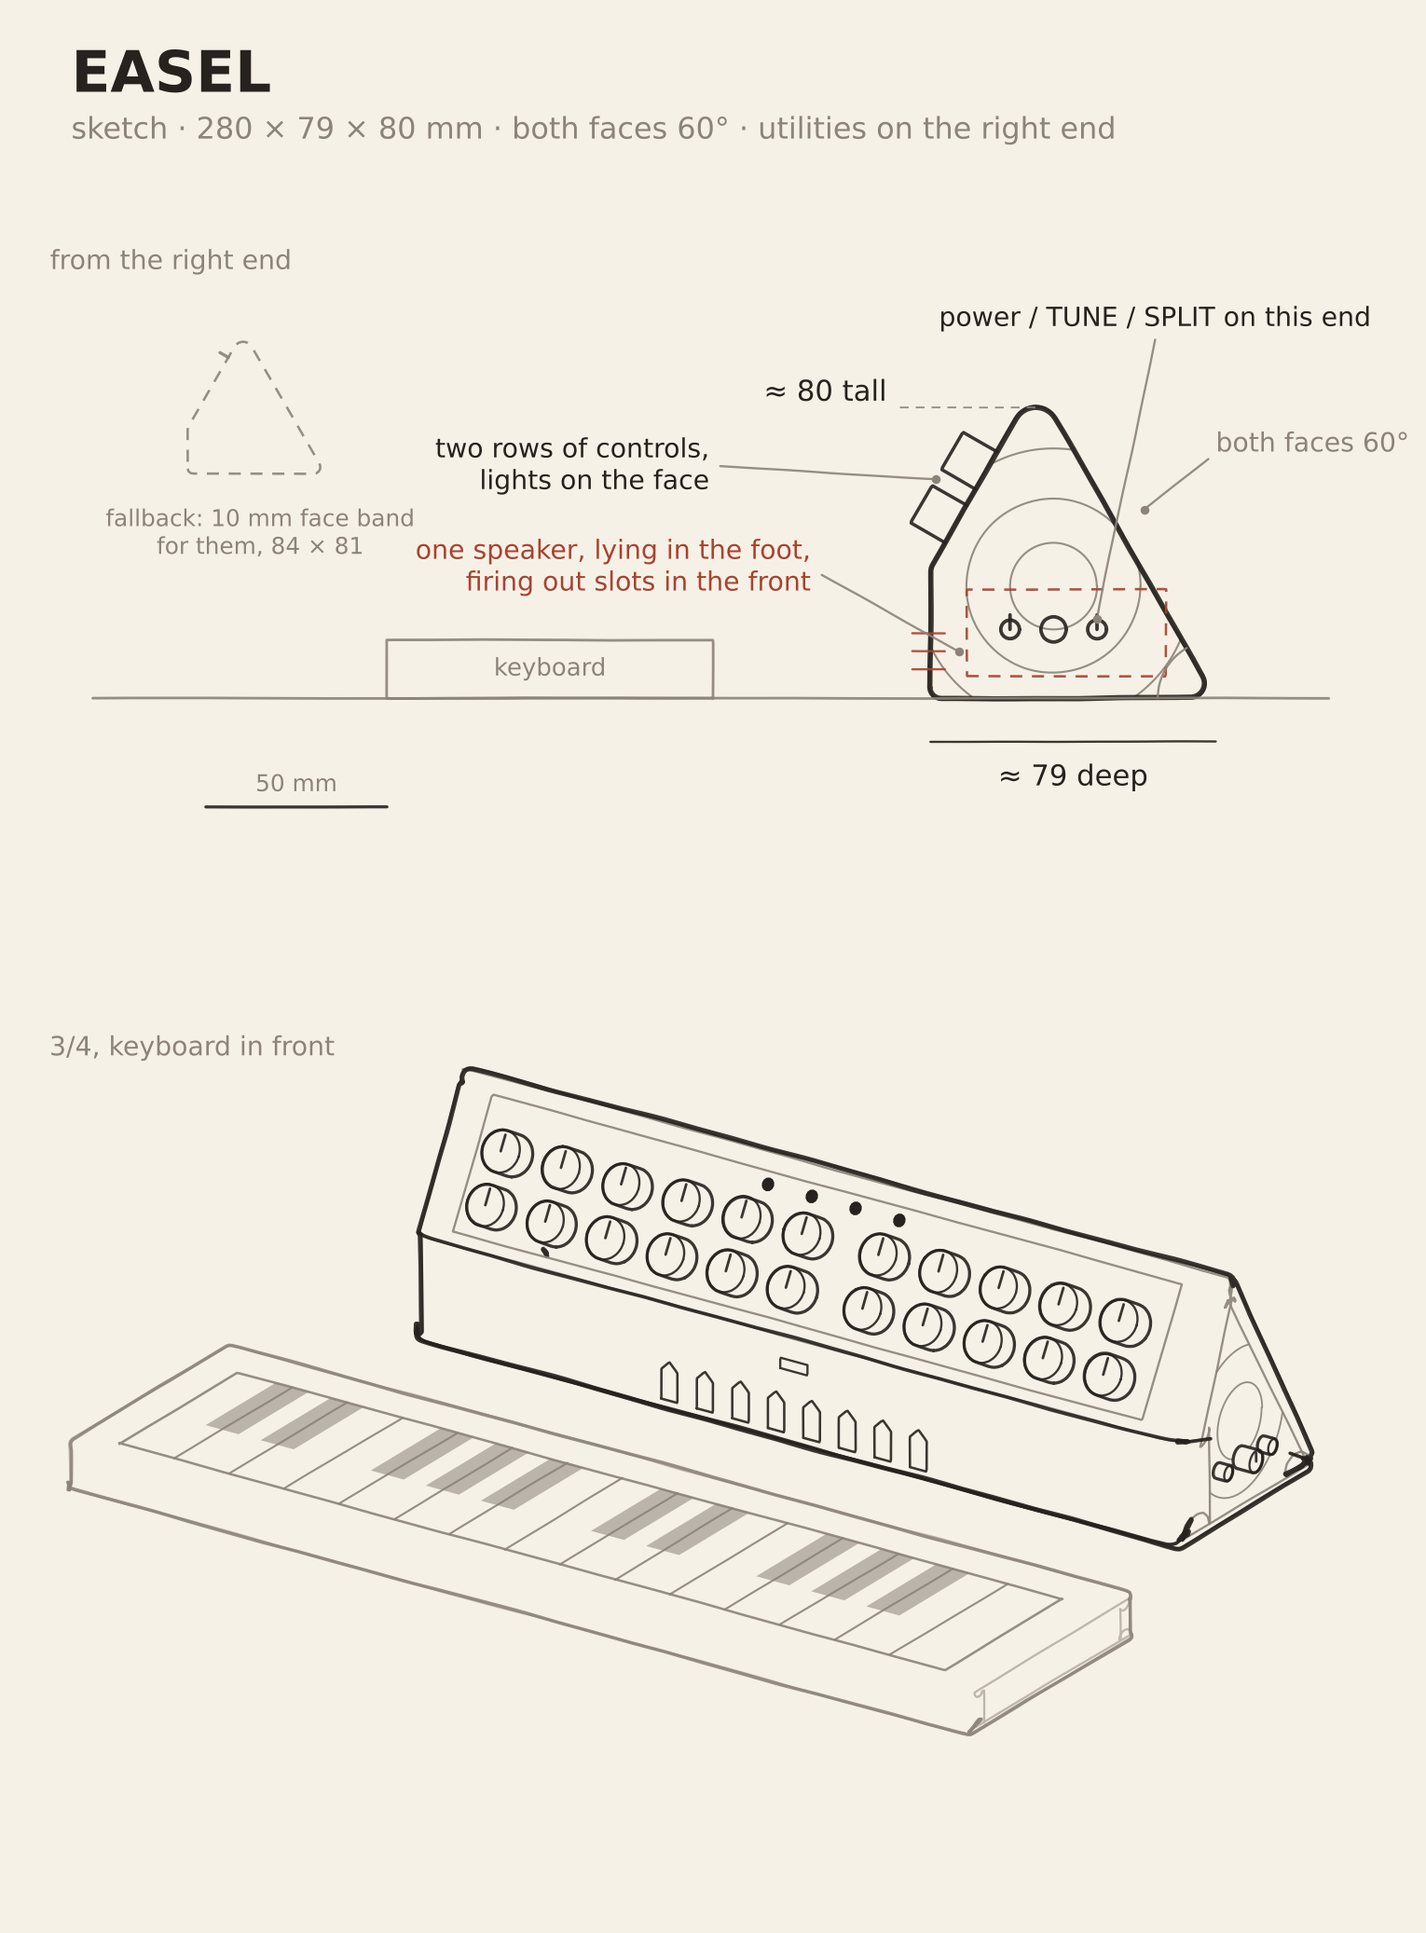
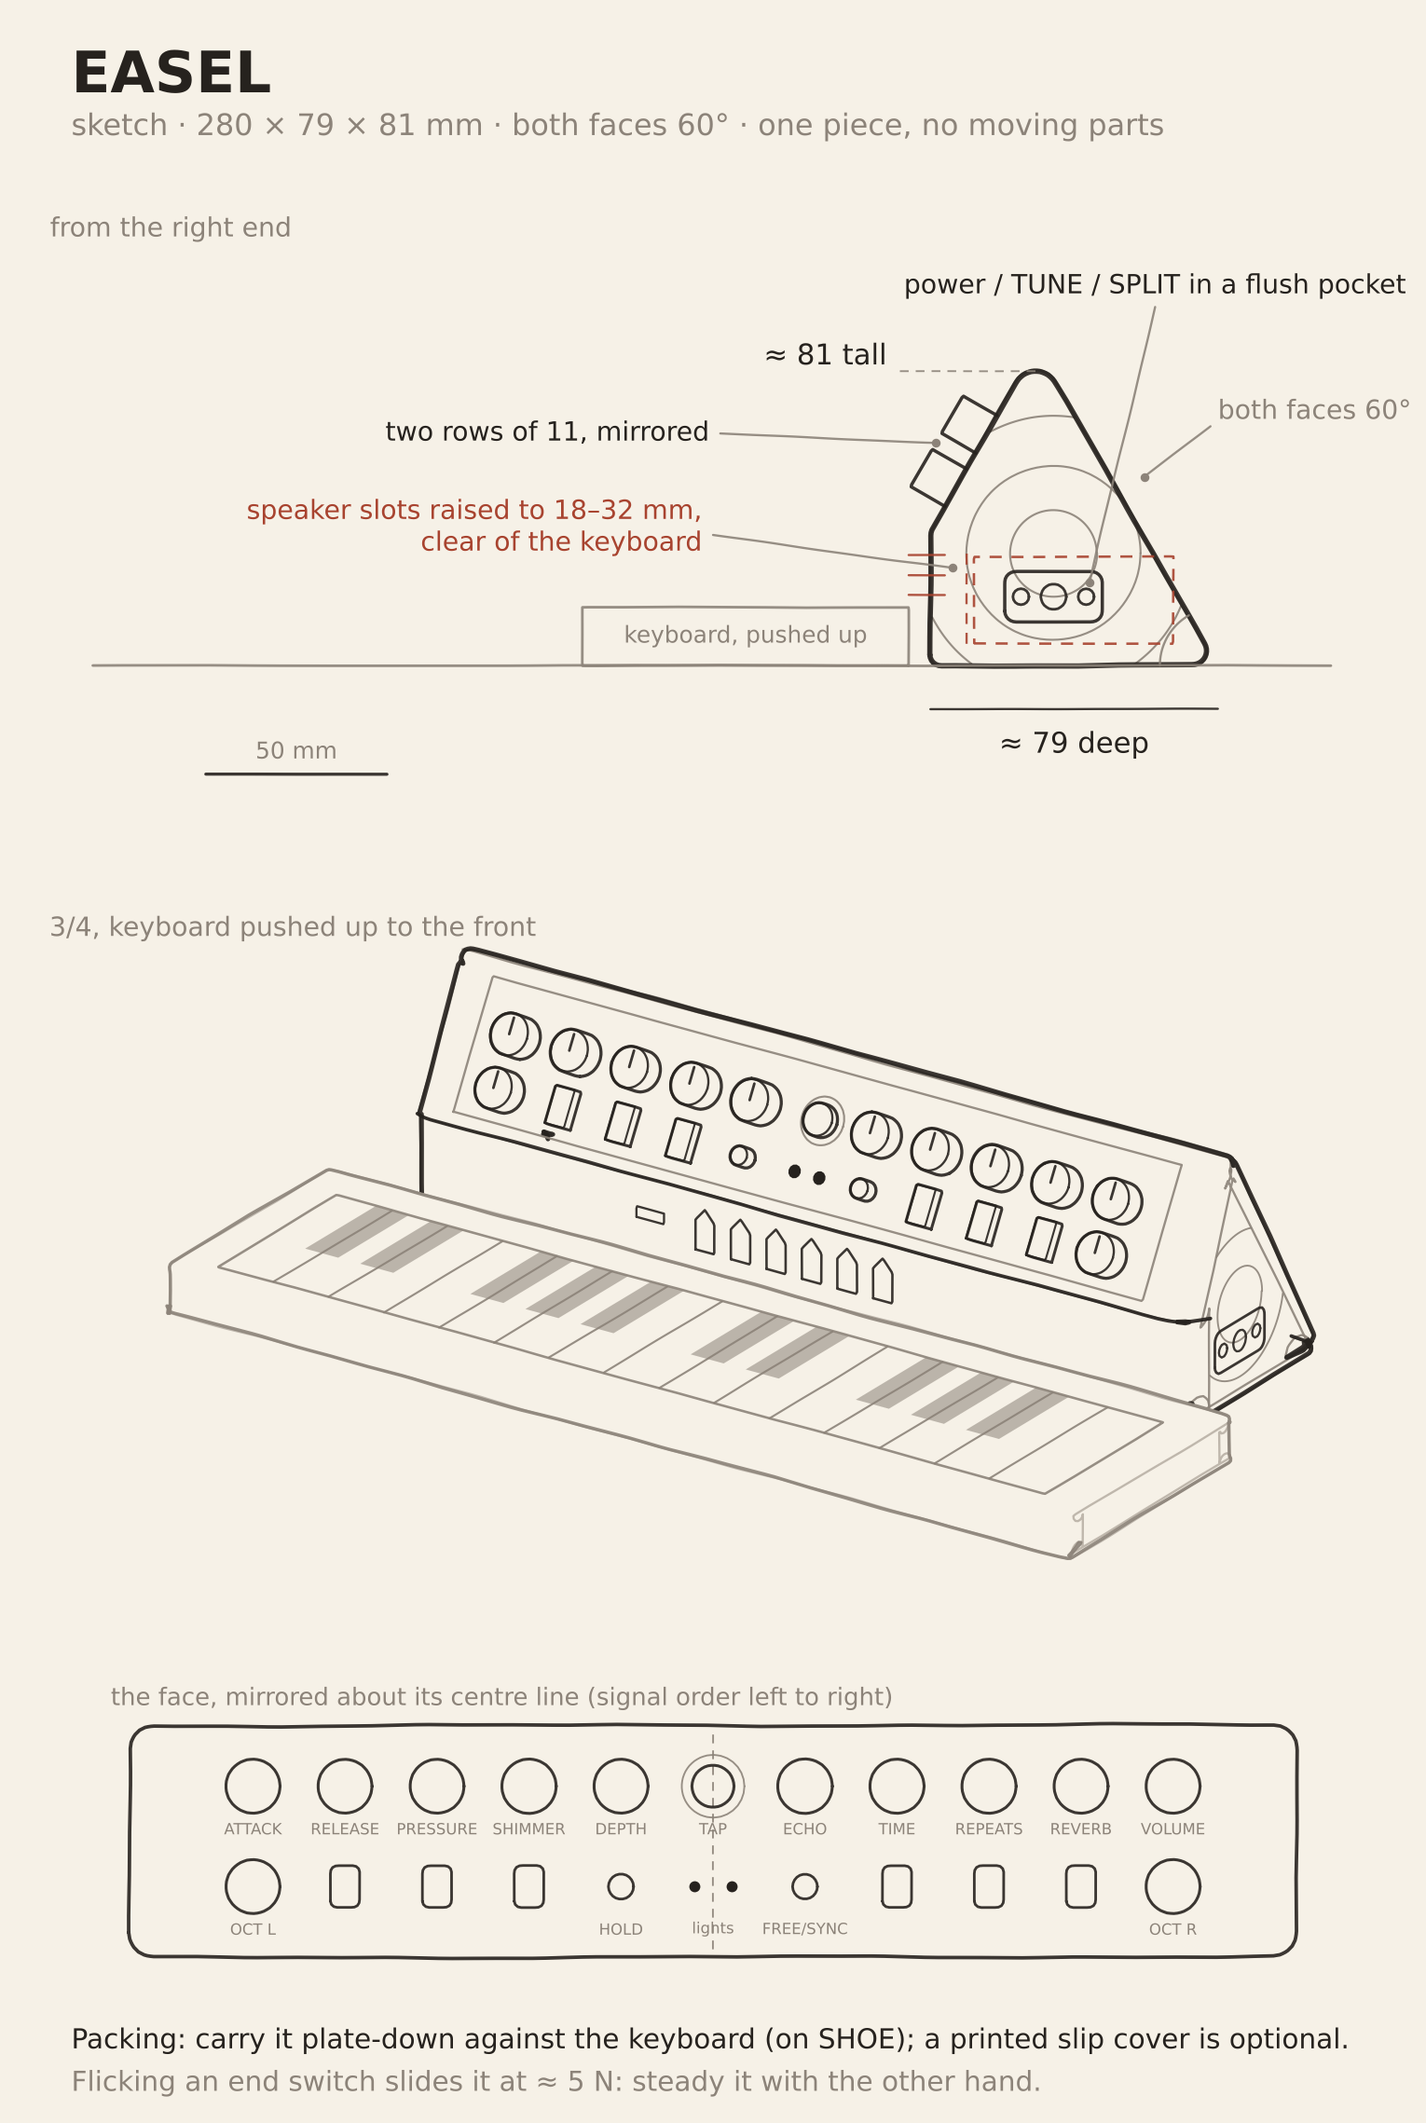
floss: EASEL rev 2.4 sketch

diff --git a/floss/design/concepts/_src/r2_sketch.py b/floss/design/concepts/_src/r2_sketch.py
@@ -689,6 +689,197 @@ def easel_34(ax, cam, kb=True):
     if kb: draw_keyboard(ax, cam, W/2 - 165, -60 - 90)
 
 
+
+# ---- EASEL rev 2.4 (systems, after the director's 8): mirrored face, true count,
+# lancets raised above keyboard height, end controls in a flush pocket.
+EA_F = 37.0                                     # predella ≈ 37 (plenum needs driver centre ≥ 38.5 back)
+EA_H = EA_F + EA_PL*S60
+EA_D = EA_AY + EA_H/math.tan(math.radians(60))
+EA_TOP = EA_H - EA_TOP_R*(1/math.sin(math.radians(30)) - 1)
+EA_POCKET = (34, 19, 27, 14)                    # centre y, centre z, width, height on the right end
+EA_POCKET_CTRL = [(25, "t"), (34, "k"), (43, "t")]
+COLS = [140 + (i - 5)*22 for i in range(11)]
+TOP_ROW = ["ATTACK", "RELEASE", "PRESSURE", "SHIMMER", "DEPTH", "TAP",
+           "ECHO", "TIME", "REPEATS", "REVERB", "VOLUME"]
+LOW_ROW = ["OCT L", "tab", "tab", "tab", "HOLD", "lights",
+           "FREE/\nSYNC", "tab", "tab", "tab", "OCT R"]
+SLOT_X = [140 + (k - 2.5)*13 for k in range(6)]  # 6 lancets, z 18–32
+SLOT_Z0, SLOT_Z1 = 18.0, 32.0
+HOST_X = SLOT_X[0] - 20
+
+
+def easel_section(pl=EA_PL, f=None):
+    f = EA_F if f is None else f
+    h = f + pl*S60; ay = pl*C60; d = ay + h/math.tan(math.radians(60))
+    return [(0, 0), (d, 0), (ay, h), (0, f)], d, h
+
+
+def _pocket_2d():
+    y, z, w, h = EA_POCKET
+    return rounded([(y - w/2, z - h/2), (y + w/2, z - h/2), (y + w/2, z + h/2), (y - w/2, z + h/2)],
+                   [3, 3, 3, 3], per=5)[0]
+
+
+def easel_end(ax, ox=0, oz=0, labels=True, kb=True, ghost=False):
+    pts, d, h = easel_section()
+    sec, _ = rounded(pts, [3, 4, EA_TOP_R, 4], per=10)
+    U = lambda p: np.column_stack([ox - p[:, 0], oz + p[:, 1]])
+    for arc in rings_2d((34, 31), sec, [12, 24, 38]):
+        wob(ax, U(arc), lw=0.9, color=SOFT, amp=0.2, passes=1, over=0)
+    wob(ax, U(sec), lw=2.4, closed=True)
+    # driver in the foot + plenum up the front to the raised slots (dashed, red)
+    drv = np.array([(12, 6), (67, 6), (67, 30), (12, 30)])
+    wob(ax, U(drv), lw=1.1, color=RED, closed=True, passes=1, dashed=True, amp=0.15)
+    wob(ax, U(np.array([(10, 6), (10, SLOT_Z1)])), lw=1.0, color=RED, passes=1, dashed=True, amp=0.1, over=0)
+    for zz in (19.5, 25, 30.5):
+        wob(ax, U(np.array([(4, zz), (-6, zz)])), lw=1.0, color=RED, passes=1, amp=0.1, over=0)
+    # the flush pocket on this (right) end, controls inside, nothing proud
+    wob(ax, U(_pocket_2d()), lw=1.5, closed=True, passes=1, amp=0.05)
+    for y, kind in EA_POCKET_CTRL:
+        r = 3.5 if kind == "k" else 2.2
+        c = plane_circle(np.array([y, EA_POCKET[1], 0.0]), np.array([1, 0, 0]), np.array([0, 1, 0]), r, n=16)[:, :2]
+        wob(ax, U(c), lw=1.2, closed=True, passes=1, amp=0.04)
+    o = np.array([0, EA_F]); ev = np.array([C60, S60]); en = np.array([-S60, C60])
+    for s_, hh, ww in [(14, 11, 12), (31, 11, 12)]:
+        b = o + ev*s_
+        q = np.array([b - ev*ww/2, b - ev*ww/2 + en*hh, b + ev*ww/2 + en*hh, b + ev*ww/2])
+        wob(ax, U(q), lw=1.5, passes=1, amp=0.12, over=0)
+    wob(ax, [(ox - d - 30, oz), (ox + 230, oz)], lw=1.2, color=SOFT, passes=1, amp=0.15)
+    if kb:
+        kq = np.array([(-6, 0), (-96, 0), (-96, 16), (-6, 16)])   # pushed right up to the front
+        wob(ax, U(kq), lw=1.2, color=SOFT, closed=True, passes=1, amp=0.15)
+        label(ax, ox + 51, oz + 8, "keyboard, pushed up", size=10.5, color=SOFT, ha="center")
+    if labels:
+        aa = np.radians(np.linspace(0, 60, 16))
+        wob(ax, np.column_stack([ox - d + 16*np.cos(aa), oz + 16*np.sin(aa)]),
+            lw=1.0, color=SOFT, passes=1, amp=0.08, over=0)
+        leader(ax, (ox - d + 2, oz + 66), (ox - EA_AY - 30, oz + 52))
+        label(ax, ox - d, oz + 70, "both faces 60°", size=12, color=SOFT, ha="right")
+        wob(ax, [(ox - d, oz - 12), (ox, oz - 12)], lw=1.0, color=INK, passes=1, amp=0.1, over=0)
+        label(ax, ox - d/2, oz - 22, f"≈ {d:.0f} deep", ha="center", size=13)
+        label(ax, ox + 12, oz + EA_TOP, f"≈ {EA_TOP:.0f} tall", size=13, va="bottom")
+        wob(ax, [(ox - EA_AY, oz + EA_TOP), (ox + 10, oz + EA_TOP)], lw=0.8, color=SOFT, passes=1,
+            amp=0.1, over=0, dashed=True)
+        leader(ax, (ox + 58, oz + 64), U(np.array([o + ev*22 + en*11]))[0])
+        label(ax, ox + 61, oz + 64, "two rows of 11, mirrored", size=12)
+        leader(ax, (ox + 60, oz + 36), (ox - 6, oz + 27))
+        label(ax, ox + 63, oz + 38, "speaker slots raised to 18–32 mm,\nclear of the keyboard",
+              size=12, color=RED)
+        leader(ax, (ox - 62, oz + 99), U(np.array([(EA_POCKET[0] + 10, EA_POCKET[1] + 4)]))[0])
+        label(ax, ox - 62, oz + 101, "power / TUNE / SPLIT in a flush pocket", size=12, ha="center",
+              va="bottom")
+    return d
+
+
+def _tab(ax, cam, o, eu, ev, en, x, s_):
+    q = np.array([o + eu*(x-3.5) + ev*(s_-6), o + eu*(x+3.5) + ev*(s_-6),
+                  o + eu*(x+3.5) + ev*(s_+6), o + eu*(x-3.5) + ev*(s_+6)])
+    top = q + en*4
+    P = cam.P(np.vstack([q, top])); hull = ConvexHull(P); hp = P[hull.vertices]
+    ax.fill(hp[:, 0], hp[:, 1], color=PAPER, zorder=6.2)
+    wob(ax, hp, lw=1.3, amp=0.1, closed=True, passes=1, z=6.3)
+    wob(ax, cam.P(top), lw=0.9, amp=0.08, closed=True, passes=1, z=6.4)
+
+
+def easel_34(ax, cam, kb=True):
+    M, sec = easel_mesh()
+    draw_mesh(ax, cam, M)
+    o, eu, ev, en = easel_plate_frame()
+    s0, s1 = 4, EA_PL - 11
+    q = np.array([o + eu*14 + ev*s0, o + eu*(W-14) + ev*s0, o + eu*(W-14) + ev*s1, o + eu*14 + ev*s1])
+    wob(ax, cam.P(q), lw=1.0, color=SOFT, closed=True, passes=1, amp=0.2, z=5.6)
+    for x in SLOT_X:
+        sl = np.array([[x-3.5, -0.1, SLOT_Z0], [x+3.5, -0.1, SLOT_Z0], [x+3.5, -0.1, SLOT_Z1-4],
+                       [x, -0.1, SLOT_Z1], [x-3.5, -0.1, SLOT_Z1-4]])
+        wob(ax, cam.P(sl), lw=1.1, closed=True, passes=1, amp=0.1, z=5.6)
+    hp = np.array([[HOST_X-5, -0.1, 23.5], [HOST_X+5, -0.1, 23.5], [HOST_X+5, -0.1, 27], [HOST_X-5, -0.1, 27]])
+    wob(ax, cam.P(hp), lw=1.0, closed=True, passes=1, amp=0.08, z=5.6)
+    items = []
+    for i, nm in enumerate(TOP_ROW): items.append((COLS[i], 31, nm))
+    for i, nm in enumerate(LOW_ROW): items.append((COLS[i], 14, nm))
+    items.sort(key=lambda t: -cam.depth(o + eu*t[0] + ev*t[1]))
+    for x, s_, nm in items:
+        if nm == "TAP":
+            knob3d(ax, cam, o + eu*x + ev*s_, eu, ev, en, r=5.0, h=3, tick=False)
+            wob(ax, cam.P(plane_circle(o + eu*x + ev*s_, eu, ev, 7.5)), lw=0.9, color=SOFT,
+                closed=True, passes=1, amp=0.05, z=6.1)
+        elif nm == "tab":
+            _tab(ax, cam, o, eu, ev, en, x, s_)
+        elif nm in ("HOLD", "FREE/\nSYNC"):
+            knob3d(ax, cam, o + eu*x + ev*s_, eu, ev, en, r=3.0, h=5, tick=False)
+        elif nm == "lights":
+            for dx in (-4.5, 4.5):
+                c = plane_circle(o + eu*(x+dx) + ev*s_, eu, ev, 1.8, n=12)
+                pc = cam.P(c); ax.fill(pc[:, 0], pc[:, 1], color=INK, zorder=6.5)
+        else:
+            knob3d(ax, cam, o + eu*x + ev*s_, eu, ev, en, r=6.5, h=8)
+    cap = M.R[-1]; xc = cap[0, 0]
+    for arc in rings_2d((34, 31), cap[:, 1:], [12, 24]):
+        P3 = np.column_stack([np.full(len(arc), xc), arc])
+        wob(ax, cam.P(P3), lw=0.8, color=SOFT, amp=0.15, passes=1, over=0, z=5.6)
+    pk = _pocket_2d()
+    wob(ax, cam.P(np.column_stack([np.full(len(pk), xc), pk])), lw=1.2, closed=True, passes=1, amp=0.05, z=5.7)
+    for y, kind in EA_POCKET_CTRL:
+        c = plane_circle(np.array([xc, y, EA_POCKET[1]]), np.array([0, 1, 0]), np.array([0, 0, 1]),
+                         3.5 if kind == "k" else 2.2, n=14)
+        wob(ax, cam.P(c), lw=1.0, closed=True, passes=1, amp=0.04, z=5.8)
+    if kb: draw_keyboard(ax, cam, W/2 - 165, -6 - 90)
+
+
+def easel_face(ax):
+    """Face-on strip: the mirrored layout with names (signal order left to right)."""
+    wob(ax, rounded([(0, 0), (W, 0), (W, 56), (0, 56)], [6, 6, 6, 6], per=5)[0], lw=1.6, closed=True, passes=1)
+    wob(ax, [(140, 2), (140, 54)], lw=0.8, color=SOFT, passes=1, dashed=True, amp=0.05, over=0)
+    for row, zc in ((TOP_ROW, 41), (LOW_ROW, 17)):
+        for x, nm in zip(COLS, row):
+            if nm == "tab":
+                wob(ax, rounded([(x-3.5, zc-5), (x+3.5, zc-5), (x+3.5, zc+5), (x-3.5, zc+5)], [1.5]*4, per=3)[0],
+                    lw=1.2, closed=True, passes=1, amp=0.05)
+            elif nm == "lights":
+                for dx in (-4.5, 4.5): ax.plot(x+dx, zc, "o", ms=4, color=INK)
+            elif nm in ("HOLD", "FREE/\nSYNC"):
+                wob(ax, plane_circle(np.array([x, zc, 0.]), np.array([1, 0, 0]), np.array([0, 1, 0]), 3)[:, :2],
+                    lw=1.2, closed=True, passes=1, amp=0.04)
+            elif nm == "TAP":
+                wob(ax, plane_circle(np.array([x, zc, 0.]), np.array([1, 0, 0]), np.array([0, 1, 0]), 5)[:, :2],
+                    lw=1.3, closed=True, passes=1, amp=0.04)
+                wob(ax, plane_circle(np.array([x, zc, 0.]), np.array([1, 0, 0]), np.array([0, 1, 0]), 7.5)[:, :2],
+                    lw=0.8, color=SOFT, closed=True, passes=1, amp=0.04)
+            else:
+                wob(ax, plane_circle(np.array([x, zc, 0.]), np.array([1, 0, 0]), np.array([0, 1, 0]), 6.5)[:, :2],
+                    lw=1.3, closed=True, passes=1, amp=0.05)
+            nm2 = {"tab": "", "lights": "lights", "FREE/\nSYNC": "FREE/SYNC"}.get(nm, nm)
+            if nm2:
+                ax.text(x, zc - 8.5, nm2, fontsize=7, color=SOFT, ha="center", va="top", linespacing=0.9)
+
+
+def single_easel(path):
+    global B34
+    if B34 is None: B34 = scene_bounds()
+    fig = plt.figure(figsize=(9, 13.4), dpi=170, facecolor=PAPER)
+    fig.text(0.05, 0.977, "EASEL", fontsize=26, weight="bold", color=INK, va="top")
+    fig.text(0.05, 0.947, f"sketch · 280 × {EA_D:.0f} × {EA_TOP:.0f} mm · both faces 60° · one piece, no moving parts",
+             fontsize=13.5, color=SOFT, va="top")
+    a1 = fig.add_axes([0.03, 0.60, 0.94, 0.33]); setup(a1, END_XL, END_XR, END_ZB, END_ZT, flip=FLIP)
+    easel_end(a1)
+    label(a1, END_XR - 2, END_ZT - 4, "from the right end", size=12, color=SOFT, va="top", ha="right")
+    wob(a1, [(150, END_ZB + 6), (200, END_ZB + 6)], lw=1.4, passes=1, amp=0.05, over=0)
+    label(a1, 175, END_ZB + 12, "50 mm", size=10.5, color=SOFT, ha="center")
+    a2 = fig.add_axes([0.03, 0.20, 0.94, 0.40]); setup(a2, *B34)
+    easel_34(a2, CAM)
+    a2.text(B34[0] + 2, B34[3] - 4, "3/4, keyboard pushed up to the front", fontsize=12, color=SOFT,
+            va="top", ha="left")
+    a3 = fig.add_axes([0.06, 0.07, 0.88, 0.13]); setup(a3, -4, W + 4, -4, 62)
+    easel_face(a3)
+    a3.text(-4, 59, "the face, mirrored about its centre line (signal order left to right)", fontsize=11,
+            color=SOFT, va="bottom", ha="left")
+    fig.text(0.05, 0.045, "Packing: carry it plate-down against the keyboard (on SHOE); a printed slip cover is optional.",
+             fontsize=12.5, color=INK, va="top")
+    fig.text(0.05, 0.025, "Flicking an end switch slides it at ≈ 5 N: steady it with the other hand.",
+             fontsize=12.5, color=SOFT, va="top")
+    fig.savefig(path, facecolor=PAPER); plt.close(fig)
+
+
 # =============================================================== sheets
 CAM = Cam(-34, 24)
 END_XL, END_XR, END_ZB, END_ZT = -125, 245, -36, 128      # mm, end-view frame (u, z)
@@ -739,8 +930,8 @@ def compare(path):
     fig.text(0.03, 0.937, "one ground line, the same keyboard, the same scale: only the shape changes",
              fontsize=14, color=SOFT, va="top")
     cols = [("EASEL", easel_end, easel_34,
-             "280 × 79 × 80 mm · 60° · narrow and upright, but the\n"
-             "utilities on the right end slide it at ≈ 5 N"),
+             "280 × 79 × 81 mm · 60° · narrow and upright; face mirrored,\n"
+             "packs plate-down against the keyboard"),
             ("LOW GNOMON", lg_end, lg_34,
              "280 × 104 × 52 mm · ≈ 9.5° · the steadiest, zero parts,\n"
              "but no flat pose, and it reads close to SILL tilted")]
@@ -760,9 +951,7 @@ def compare(path):
 if __name__ == "__main__":
     import os
     here = os.path.dirname(os.path.abspath(__file__))
-    single("easel", easel_end, easel_34, "EASEL",
-           f"sketch · 280 × {EA_D:.0f} × {EA_TOP:.0f} mm · both faces 60° · utilities on the right end",
-           os.path.join(here, "..", "r2-easel", "sketch.png"))
+    single_easel(os.path.join(here, "..", "r2-easel", "sketch.png"))
     single("lowgnomon", lg_end, lg_34, "LOW GNOMON",
            "sketch · 280 × 104 × 52 mm · ≈ 9.5° by shape · base and back 90° · no moving parts",
            os.path.join(here, "..", "r2-lowgnomon", "sketch.png"))

diff --git a/floss/design/concepts/r2-easel/how-it-looks-and-feels.md b/floss/design/concepts/r2-easel/how-it-looks-and-feels.md
@@ -1,6 +1,31 @@
 # EASEL: how it looks and feels (visual, idea level)
 
-## Rev 2.3 sketch (2026-11-22, round 2): this section supersedes everything below it
+## Rev 2.4 sketch (2026-11-23, round 2, after the director's 8): this section supersedes everything below it
+
+**Picture:** `sketch.png`. It has an end view from the right end, a 3/4 view with the keyboard pushed right up to the front, a face-on strip of the panel, and two caption lines. **Source:** `../_src/r2_sketch.py`, `single_easel()`. Size **280 × 79 × 81** (predella ≈ 37, plate 58, both faces 60°, r 6 top). Systems rev 2.4 owns the geometry.
+
+**The face, mirrored about its centre line** (21 playing controls + the lights = 2 × 11 at 22 pitch):
+- **Top row:** ATTACK · RELEASE · PRESSURE · SHIMMER · DEPTH | **TAP** (on the axis; its ring = tempo / status) | ECHO · TIME · REPEATS · REVERB · VOLUME.
+- **Lower row:** OCT L · three tabs · HOLD | **two lights** (on the axis) | FREE / SYNC · three tabs · OCT R.
+  - The two octaves bracket the row, the two small switches flank the lights, and the tabs mirror.
+  - Within a half the tabs are drawn as plain tabs; their order is mine to set later.
+- No 6 / 5 split any more: the axis goes through TAP and the lights.
+
+**Front face:** six lancets at z 18–32, so they clear a slim keyboard pushed up to the face (the end view shows it). The host USB-C sits beside them, on the left. The plenum is dashed red on the end view.
+
+**Right end:** power / TUNE / SPLIT sit in a **flush, recessed pocket** ≈ 27 × 14 (rounded) on the end flat. Nothing stands proud in the bag.
+
+**Captions:**
+- Packing: carry it plate-down against the keyboard (on SHOE); a printed slip cover is optional.
+- Flicking an end switch slides it at ≈ 5 N: steady it with the other hand.
+
+**Open:**
+- A keyboard taller than ≈ 18 at its back edge would still mask the lower slots (systems: then leave a ≈ 2 cm gap).
+- The slot low-pass is still eng's main acoustic risk.
+
+---
+
+## Superseded: rev 2.3 sketch
 
 **Owner, verbatim, on power / TUNE / MIDI SPLIT:** "Face or edge imo" (not the back). Systems' rev 2.3 picks the **right end face**.
 

diff --git a/floss/design/notes/visual.md b/floss/design/notes/visual.md
@@ -612,3 +612,15 @@ Rev 4 was a sharp extrusion.
 
 **Next:** systems checks EASEL's grown section; then the director scores both sketches.
 - **Same night, EASEL rev 2.3** (owner, verbatim: "Face or edge imo"; systems picked the right end face). `r2-easel/sketch.png` redrawn at **280 × 79 × 80**: toggle, TUNE and toggle on the right end at z ≈ 14–24 (shown face-on in the end view and in the 3/4), lights on the face, the 10 mm face band (84 × 81) as a small dashed inset. All end views now look from the **right end** and the 3/4 views from the front-right (`FLIP`, `Cam(-34, 24)` in `r2_sketch.py`), so LOW GNOMON's sketch shows its jack row. `r2-sketches.png` caption: EASEL's trade-off is now "utilities on the right end slide it at ≈ 5 N". Mds updated. Every PNG opened.
+
+## 2026-11-23: EASEL rev 2.4 sketch (after the director's 8; LOW GNOMON scored 6, "replace; don't send")
+- `r2-easel/sketch.png` redrawn per systems rev 2.4, 280 × 79 × 81:
+  - the face is mirrored about the axis: TAP over the lights, 10 | 1 | 10 in each row, in jobs.md's true count;
+  - six lancets raised to z 18–32, with the host USB-C beside them;
+  - power / TUNE / SPLIT sit in a flush pocket on the right end;
+  - the 3/4 view has the keyboard pushed right up to the front (the point of raising the slots);
+  - a face-on strip with the names;
+  - two caption lines (packing plate-down on SHOE, slip cover optional; the 5 N slide).
+- Code: `single_easel()`, `easel_face()` and the rev 2.4 constants in `r2_sketch.py`; they override the earlier defs.
+- `r2-sketches.png` was re-rendered with the new EASEL column. It still has LOW GNOMON, which the director says not to send: drop or replace that column before anything goes to the owner.
+- Next, per the director: one question to the owner (replace or join) with EASEL beside SILL's column; if he says "join", a new low concept (hull idea).
